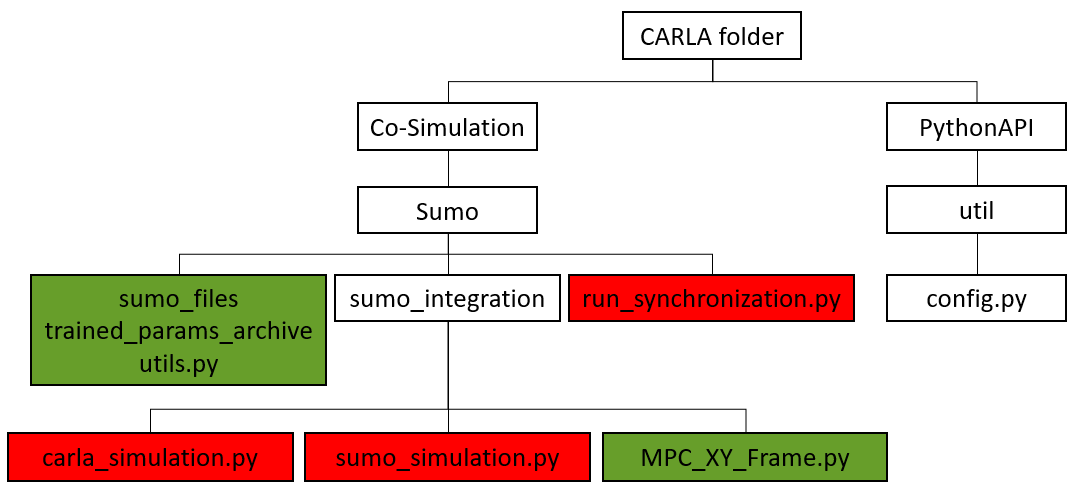
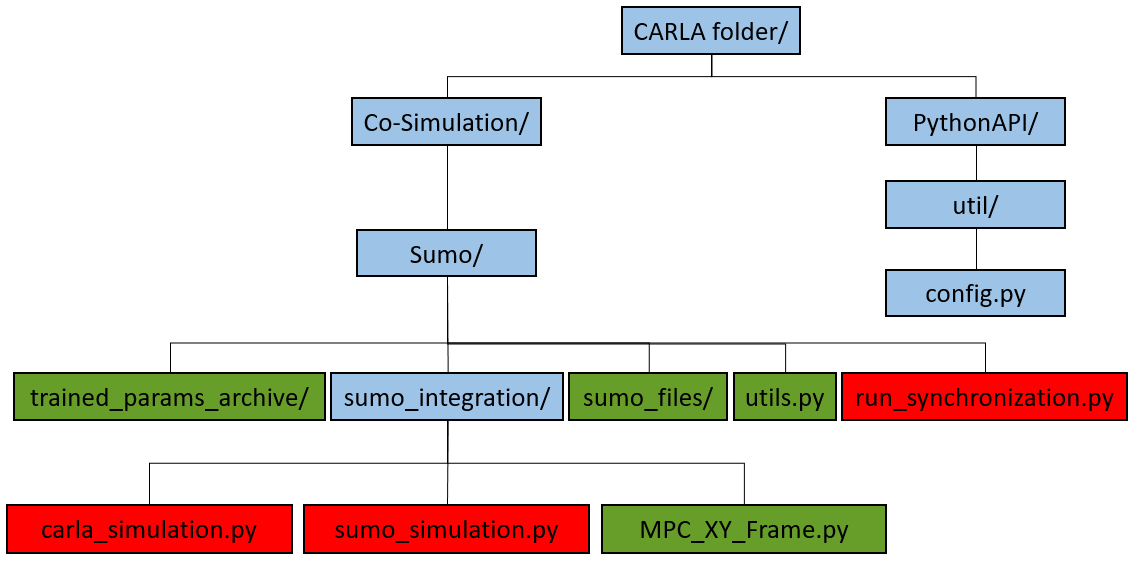
updated README

Changed region(s): [[0.0, 0.0, 1.0, 1.0], [0.1838, 0.3666, 0.6435, 0.5193], [0.9805, 0.2749, 1.0, 0.3055]]

diff --git a/README.md b/README.md
@@ -27,10 +27,10 @@ conda install -c anaconda pandas
 
 ### 2) Software Install
 This research project is based on the SUMO-CARLA co-simulation, so you need to install these two traffic simulation software on your machine. More information about this co-simulation setup is available [here](https://carla.readthedocs.io/en/latest/adv_sumo/).
-* CARLA: 0.9.10 [[download](https://github.com/carla-simulator/carla/releases/tag/0.9.10/)] [[download](https://carla.readthedocs.io/en/latest/download/)]
+* CARLA: 0.9.10 [[download](https://github.com/carla-simulator/carla/releases/tag/0.9.10/)] [[documentation](https://carla.readthedocs.io/en/latest/download/)]
 * SUMO: 1.13.0 [[install](https://sumo.dlr.de/docs/Installing/index.html)]
 
-In case you don't have the administration rights to install SUMO, you could install it by running:
+Alternatively, you could install SUMO by running:
 ```bash
 pip install eclipse-sumo
 ```
@@ -58,9 +58,11 @@ First navigate to the directory where Carla installed, then copy the directories
 
 ![image](images/setup.png)
 
-*Red: the existing script or directory needs to be replaced*
+*<font color=red>Red</font>: the existing script or directory needs to be replaced*
 
-*Green: a new created script or directory*
+*<font color=green>Green</font>: a new created script or directory*
+
+*<font color=blue>Blue</font>: the existing script or directory doesn't need to be replaced*
 
 
 ### 2) Activate our map in CARLA
@@ -73,7 +75,7 @@ cd ${Carla_folder}/PythonAPI/util   # e.g. cd /home/stud/zhud/Downloads/CARLA_0.
 
 python config.py -x ../../Co-Simulation/Sumo/sumo_files/map/map_15m.xodr
 ```
-Now the intersection scenario should be already ativated!
+Now the intersection scenario should be already activated!
 
 ### 3) Run the inference code
 First we need to set the environment variable `SUMO_HOME` properly, which should be the location of SUMO installation. If you installed SUMO from pip, you can get the location by running:
@@ -118,7 +120,9 @@ netedit     # or execute netedit.exe on Windows
 In this project, we use MPC to augment the training set, which aims to improve the robustness of vehicle when it deviate from the center of the lane. Please run the following command in the terminal:
 ```bash
 python preprocess.py --csv_folder ${csv folder} --pkl_folder ${pkl folder} --num_mpc_aug ${number of MPC data augmentation}
+
 # e.g. python preprocess.py --csv_folder csv/train --pkl_folder csv/train_pre --num_mpc_aug 2
+
 # Note: in case you don't want to have MPC data augmentation, set num_mpc_aug to 0,
 # e.g. python preprocess.py --csv_folder csv/train --pkl_folder csv/train_pre --num_mpc_aug 0
 ```
@@ -128,6 +132,7 @@ Now the preprocessed data (*.pkl) is available in `pkl folder` folder.
 Once the training set and validation set are obtained, you can begin to train your model by running:
 ```bash
 python train_gnn.py --train_folder ${path to the training set} --val_folder ${path to the validation set} --epoch ${number of total training epochs} --exp_id ${experiment ID} --batch_size ${batch size}
+
 # e.g. python train_gnn.py --train_folder csv/train_pre --val_folder csv/train_pre --epoch 20 --exp_id sumo_0402 --batch_size 20
 ```
 Once the training process is finished, you can find the trained weights in `trained_params/${exp_id}` folder. 
